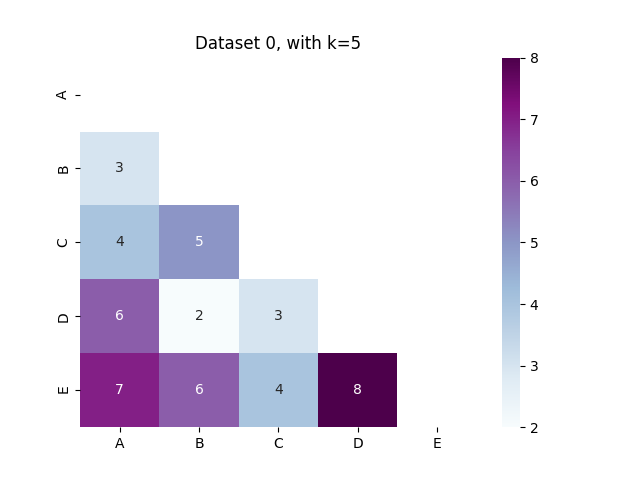
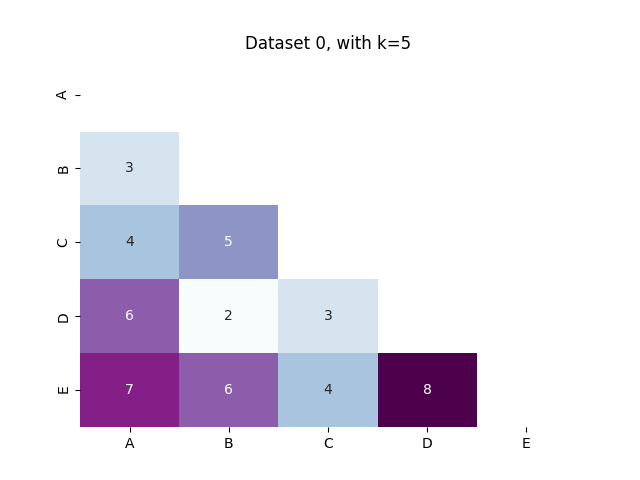
Added plot script and png (added cbar bool in the function)

diff --git a/Project 2/plot_diff.py b/Project 2/plot_diff.py
@@ -3,7 +3,7 @@
 """
 @author : Romain Graux
 @date : 2021 Apr 14, 19:06:36
-@last modified : 2021 Apr 14, 19:35:49
+@last modified : 2021 Apr 14, 19:38:34
 """
 
 
@@ -30,7 +30,7 @@ d2_k20[3, :3] = [6, 13, 15]
 d2_k20[4, :4] = [4, 10, 9, 8]
 
 
-def plot_ltri(mat: np.ndarray, title: str):
+def plot_ltri(mat: np.ndarray, title: str, cbar: bool = False):
     col_names = ["A", "B", "C", "D", "E"]
     mask = np.triu(np.ones(mat.shape)).astype(np.bool_)
     sns.heatmap(
@@ -40,6 +40,7 @@ def plot_ltri(mat: np.ndarray, title: str):
         yticklabels=col_names,
         cmap="BuPu",
         annot=True,
+        cbar=cbar,
     ).set_title(title)
     plt.savefig("./results/plots/" + title.replace(" ", "_"), transparent=True)
 
